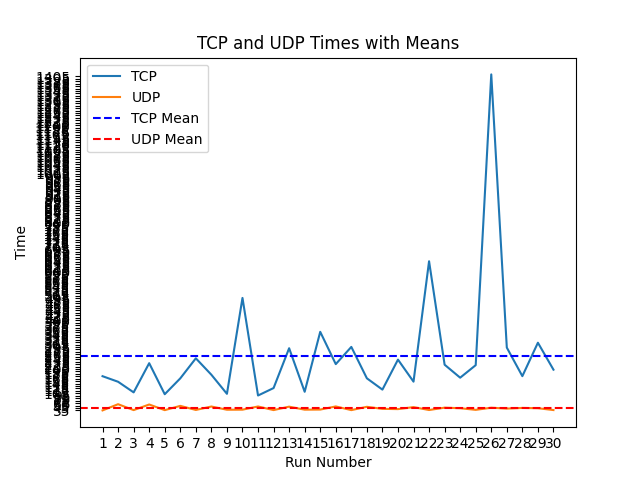
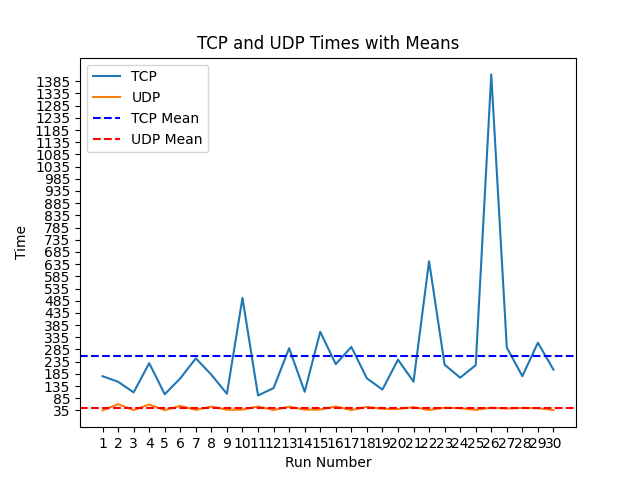
loss 15 udp

Changed region(s): [[0.0312, 0.125, 0.125, 0.875]]

diff --git a/code/experiments/main.py b/code/experiments/main.py
@@ -74,25 +74,25 @@ if os.path.exists(f'lists/tcp_times_{PARAM}.pkl'):
 else:
     tcp_times = []
 
-if len(udp_times) == RUNS and len(tcp_times) == RUNS:
-    print("Already ran.")
-    sys.exit(0)
+# if len(udp_times) == RUNS and len(tcp_times) == RUNS:
+#     print("Already ran.")
+#     sys.exit(0)
 
-if len(udp_times) < RUNS:
-    print("Running UDP...")
-    udp_times = []
-    for i in range(1, RUNS + 1):
-        print(f"Run {PARAM} {i}")
+# if len(udp_times) < RUNS:
+#     print("Running UDP...")
+#     udp_times = []
+#     for i in range(1, RUNS + 1):
+#         print(f"Run {PARAM} {i}")
         
-        # UDP
-        start = time.time()
-        udp_client.main()
-        end = time.time()
-        print(f"UDP time {PARAM} {i}: {end - start}")
-        udp_times.append(end - start)
+#         # UDP
+#         start = time.time()
+#         udp_client.main()
+#         end = time.time()
+#         print(f"UDP time {PARAM} {i}: {end - start}")
+#         udp_times.append(end - start)
         
-    with open(f'lists/udp_times_{PARAM}.pkl', 'wb') as f:
-        pickle.dump(udp_times, f)
+#     with open(f'lists/udp_times_{PARAM}.pkl', 'wb') as f:
+#         pickle.dump(udp_times, f)
 
 # if len(tcp_times) < RUNS:
 #     print("Running TCP...")
@@ -141,7 +141,7 @@ plt.axhline(y=udp_mean, color='red', linestyle='--', label="UDP Mean")
 plt.xticks(range(1, len(tcp_times) + 1))
 y_min = min(min(tcp_times), min(udp_times))  # minimum y value
 y_max = max(max(tcp_times), max(udp_times))  # maximum y value
-plt.yticks(np.arange(y_min, y_max, 10))
+plt.yticks(np.arange(y_min, y_max, 50))
 plt.xlabel("Run Number")
 plt.ylabel("Time")
 plt.legend()
